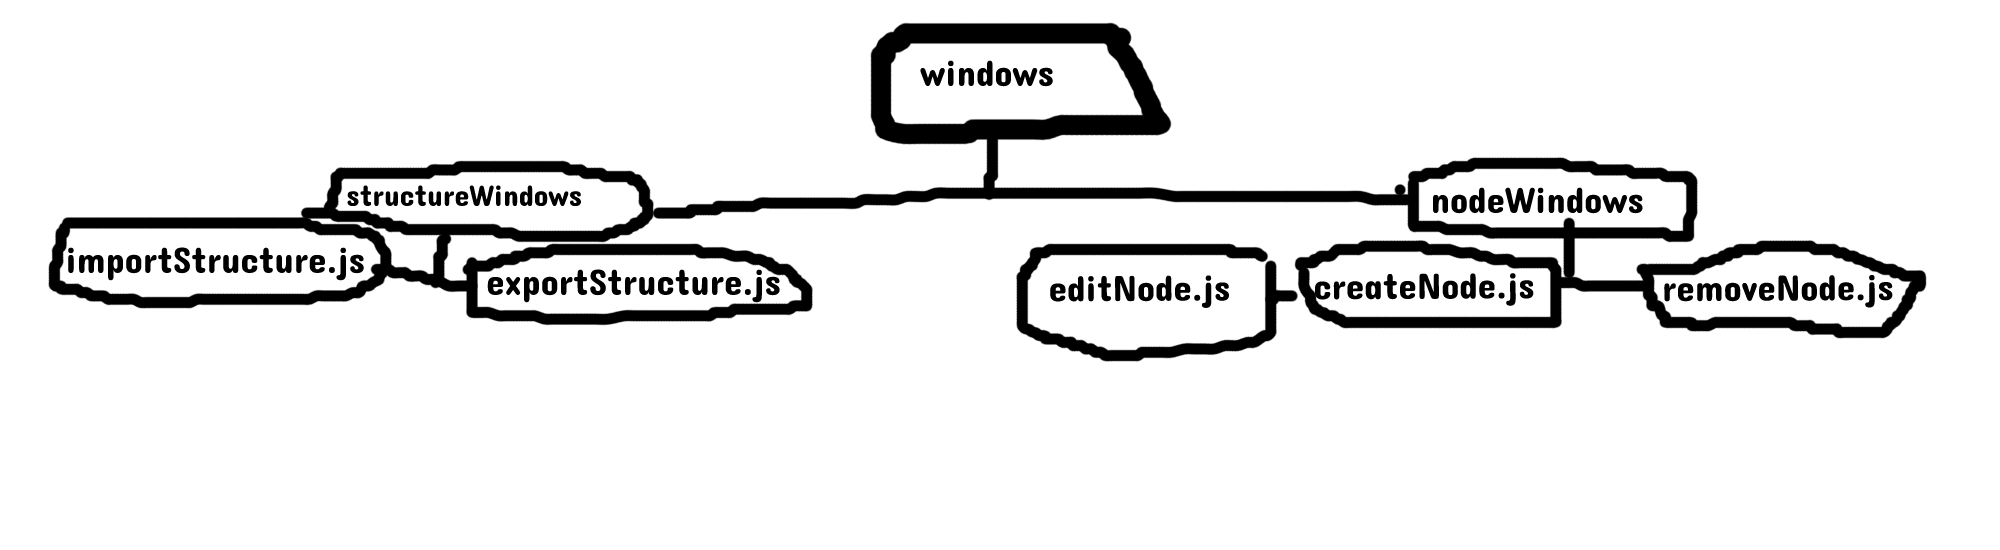
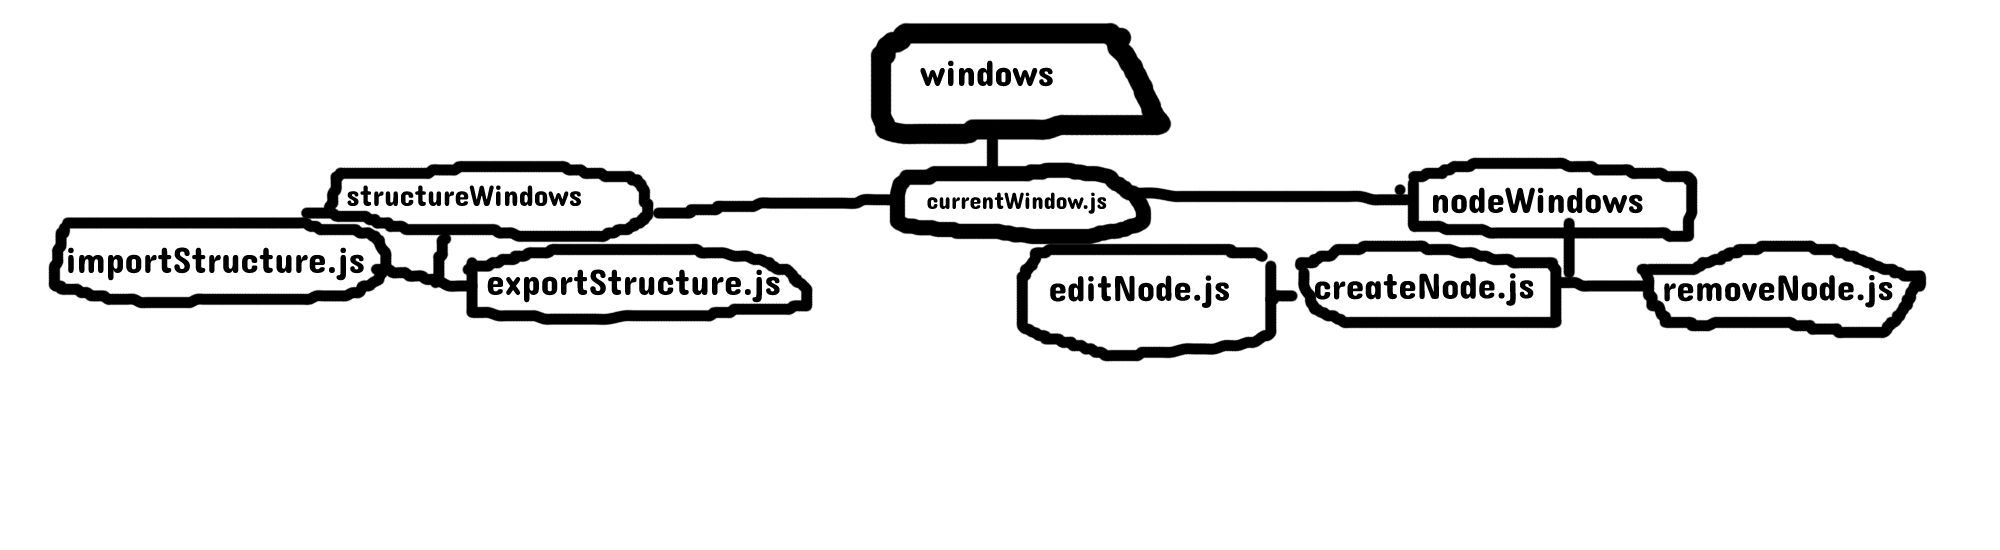
create a current Window file to check if one window is open

Changed region(s): [[0.434, 0.2782, 0.589, 0.4636]]

diff --git a/input/windows/currentWindow.js b/input/windows/currentWindow.js
@@ -1,0 +1,4 @@
+window.window = {isWindowOpen: false,}
+
+export default  currentWindow = document.querySelector('#currentWindow');
+

diff --git a/input/windows/nodeWindows/createNodes.js b/input/windows/nodeWindows/createNodes.js
@@ -1,4 +1,8 @@
+
+
+
 export function generateWindowForCreateNodesButton(){
+
 alert('generateWindowForCreateNodesButton')
 
 

diff --git a/README.md b/README.md
@@ -13,9 +13,6 @@ lightmode folder = support light mode with javascript and make the styling with 
 ![Alt text](/images/styleFolder.png "visual representation of Style folder")
 
 
-index.html:
-it contains to contain the main structure of the website as any other index.html file
-![Alt text](/images/htmlStructure.png "visual representation of html file")
 
 
 
@@ -23,6 +20,7 @@ windows folder:
 all the files that generate from a window by clicking on of the buttons.
 structureWindows = all the content generated from one of the buttons that are related to structures.
 nodeWindows = all the content generated from one of the buttons that are related to nodes. 
+currentWindow.js = manages if window is open or not and creates a variable for Current window
 ![Alt text](/images/windowFolder.png "visual representation of window folder")
 
 nodes folder:
@@ -54,3 +52,7 @@ add events to all the buttons from html and import the functionality from the wi
 shortcuts.js:
 add keyboard support so you don't have to rely on the buttons to interact with the website.
 
+
+index.html:
+it contains to contain the main structure of the website as any other index.html file
+![Alt text](/images/htmlStructure.png "visual representation of html file")
